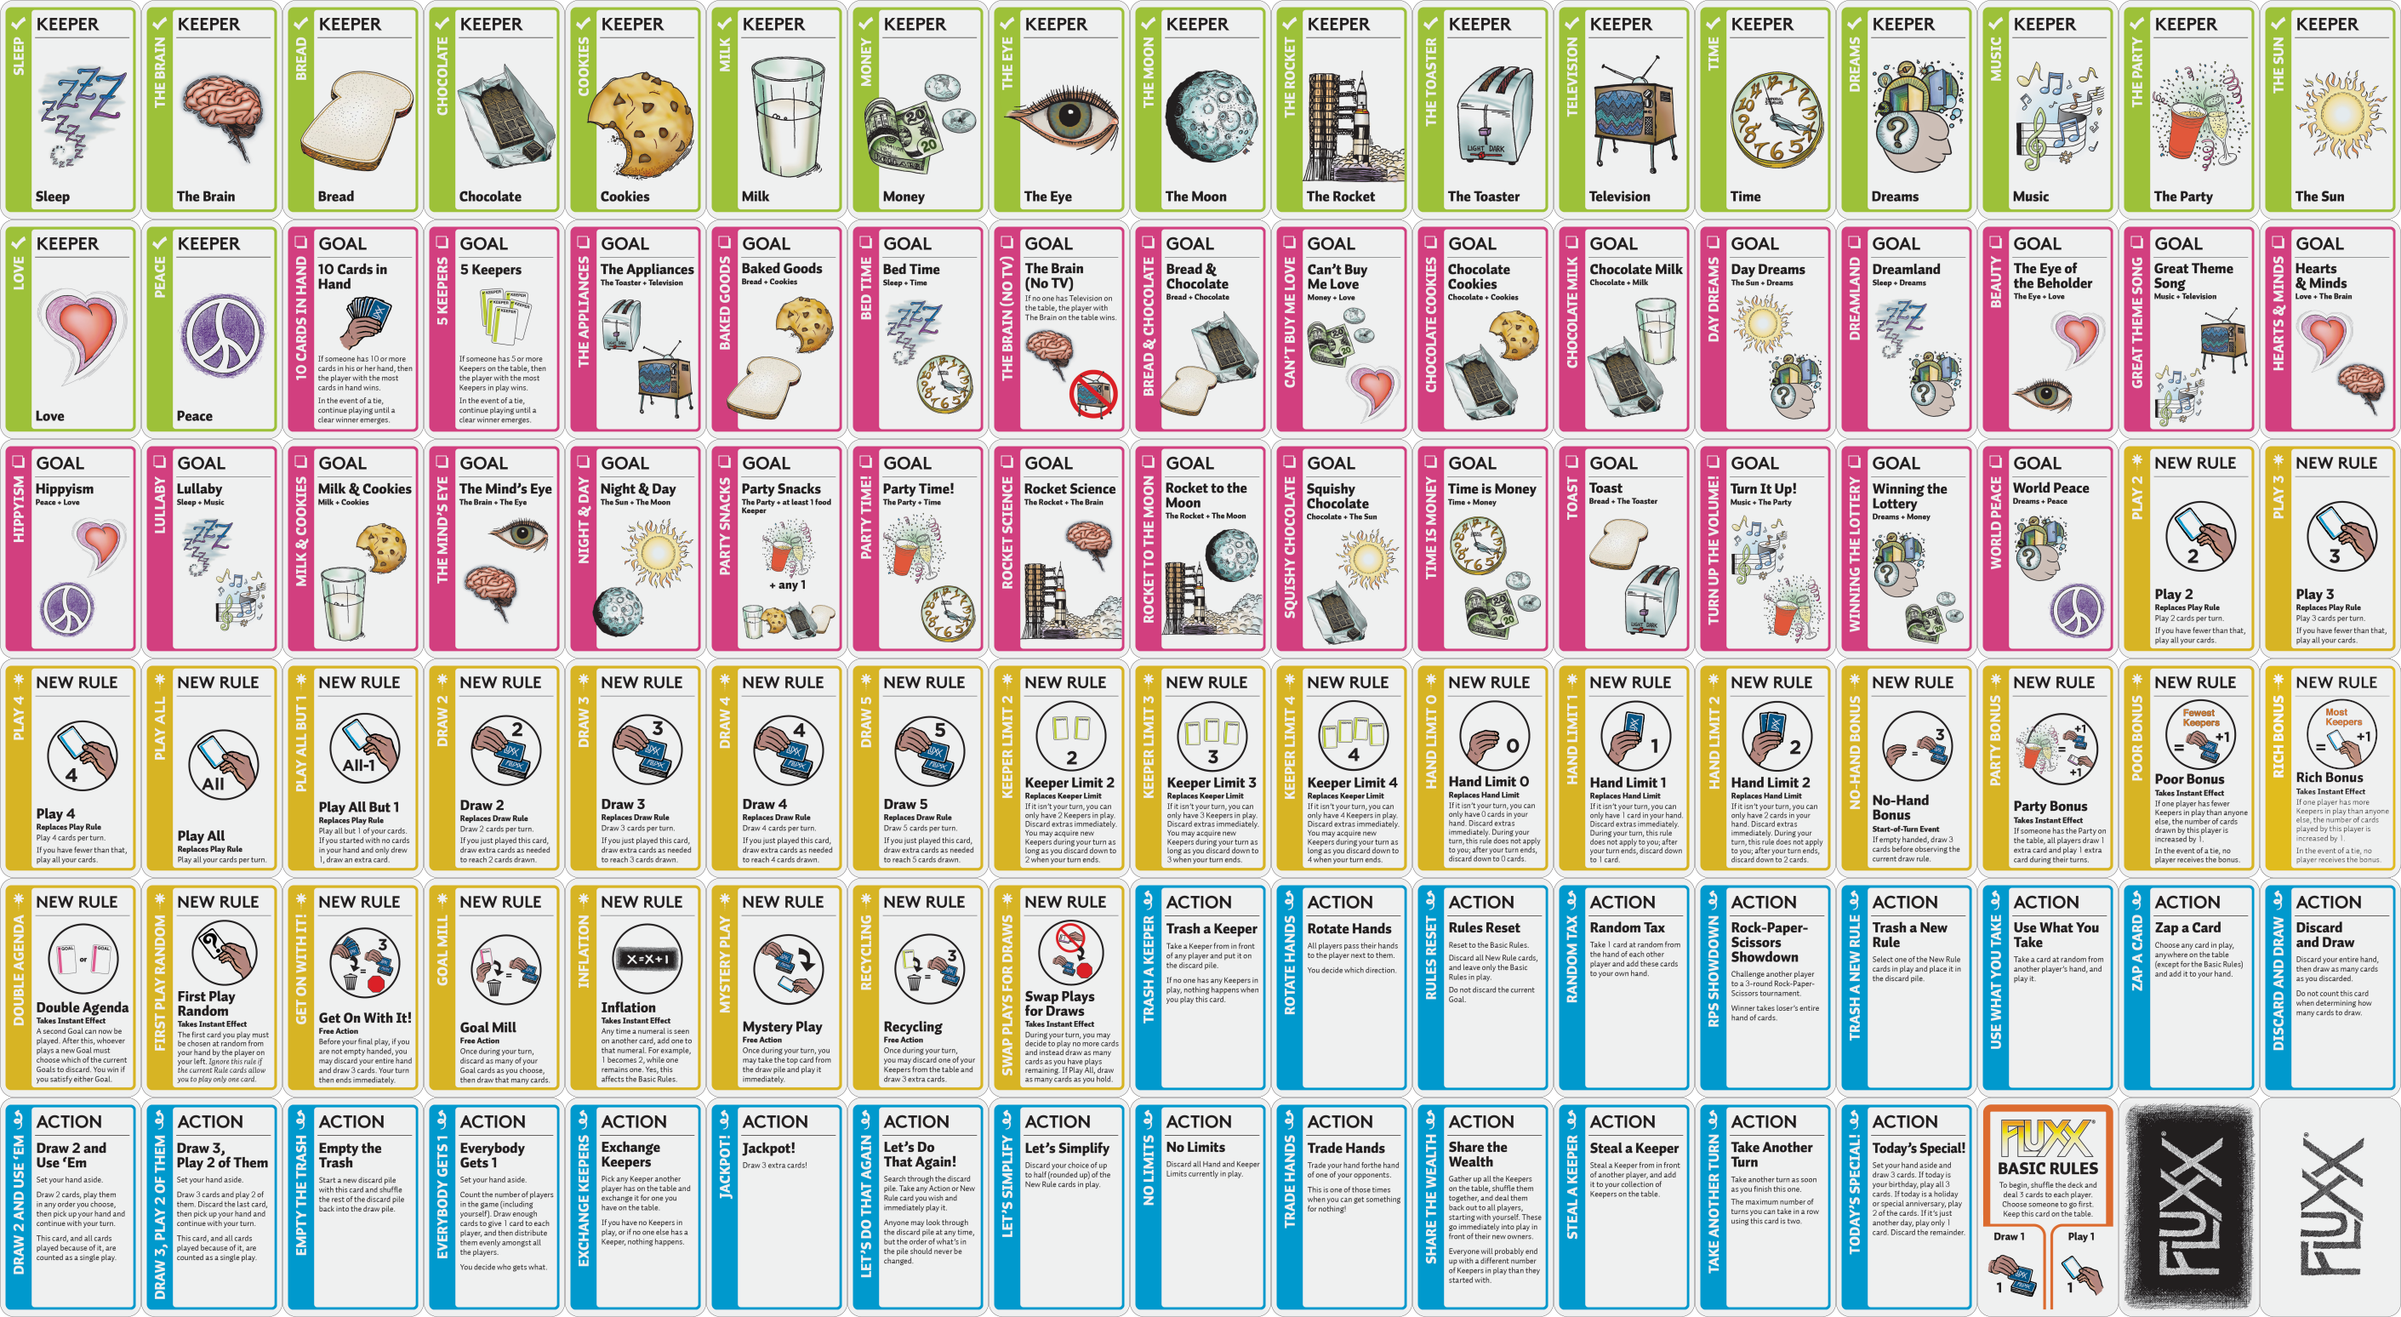
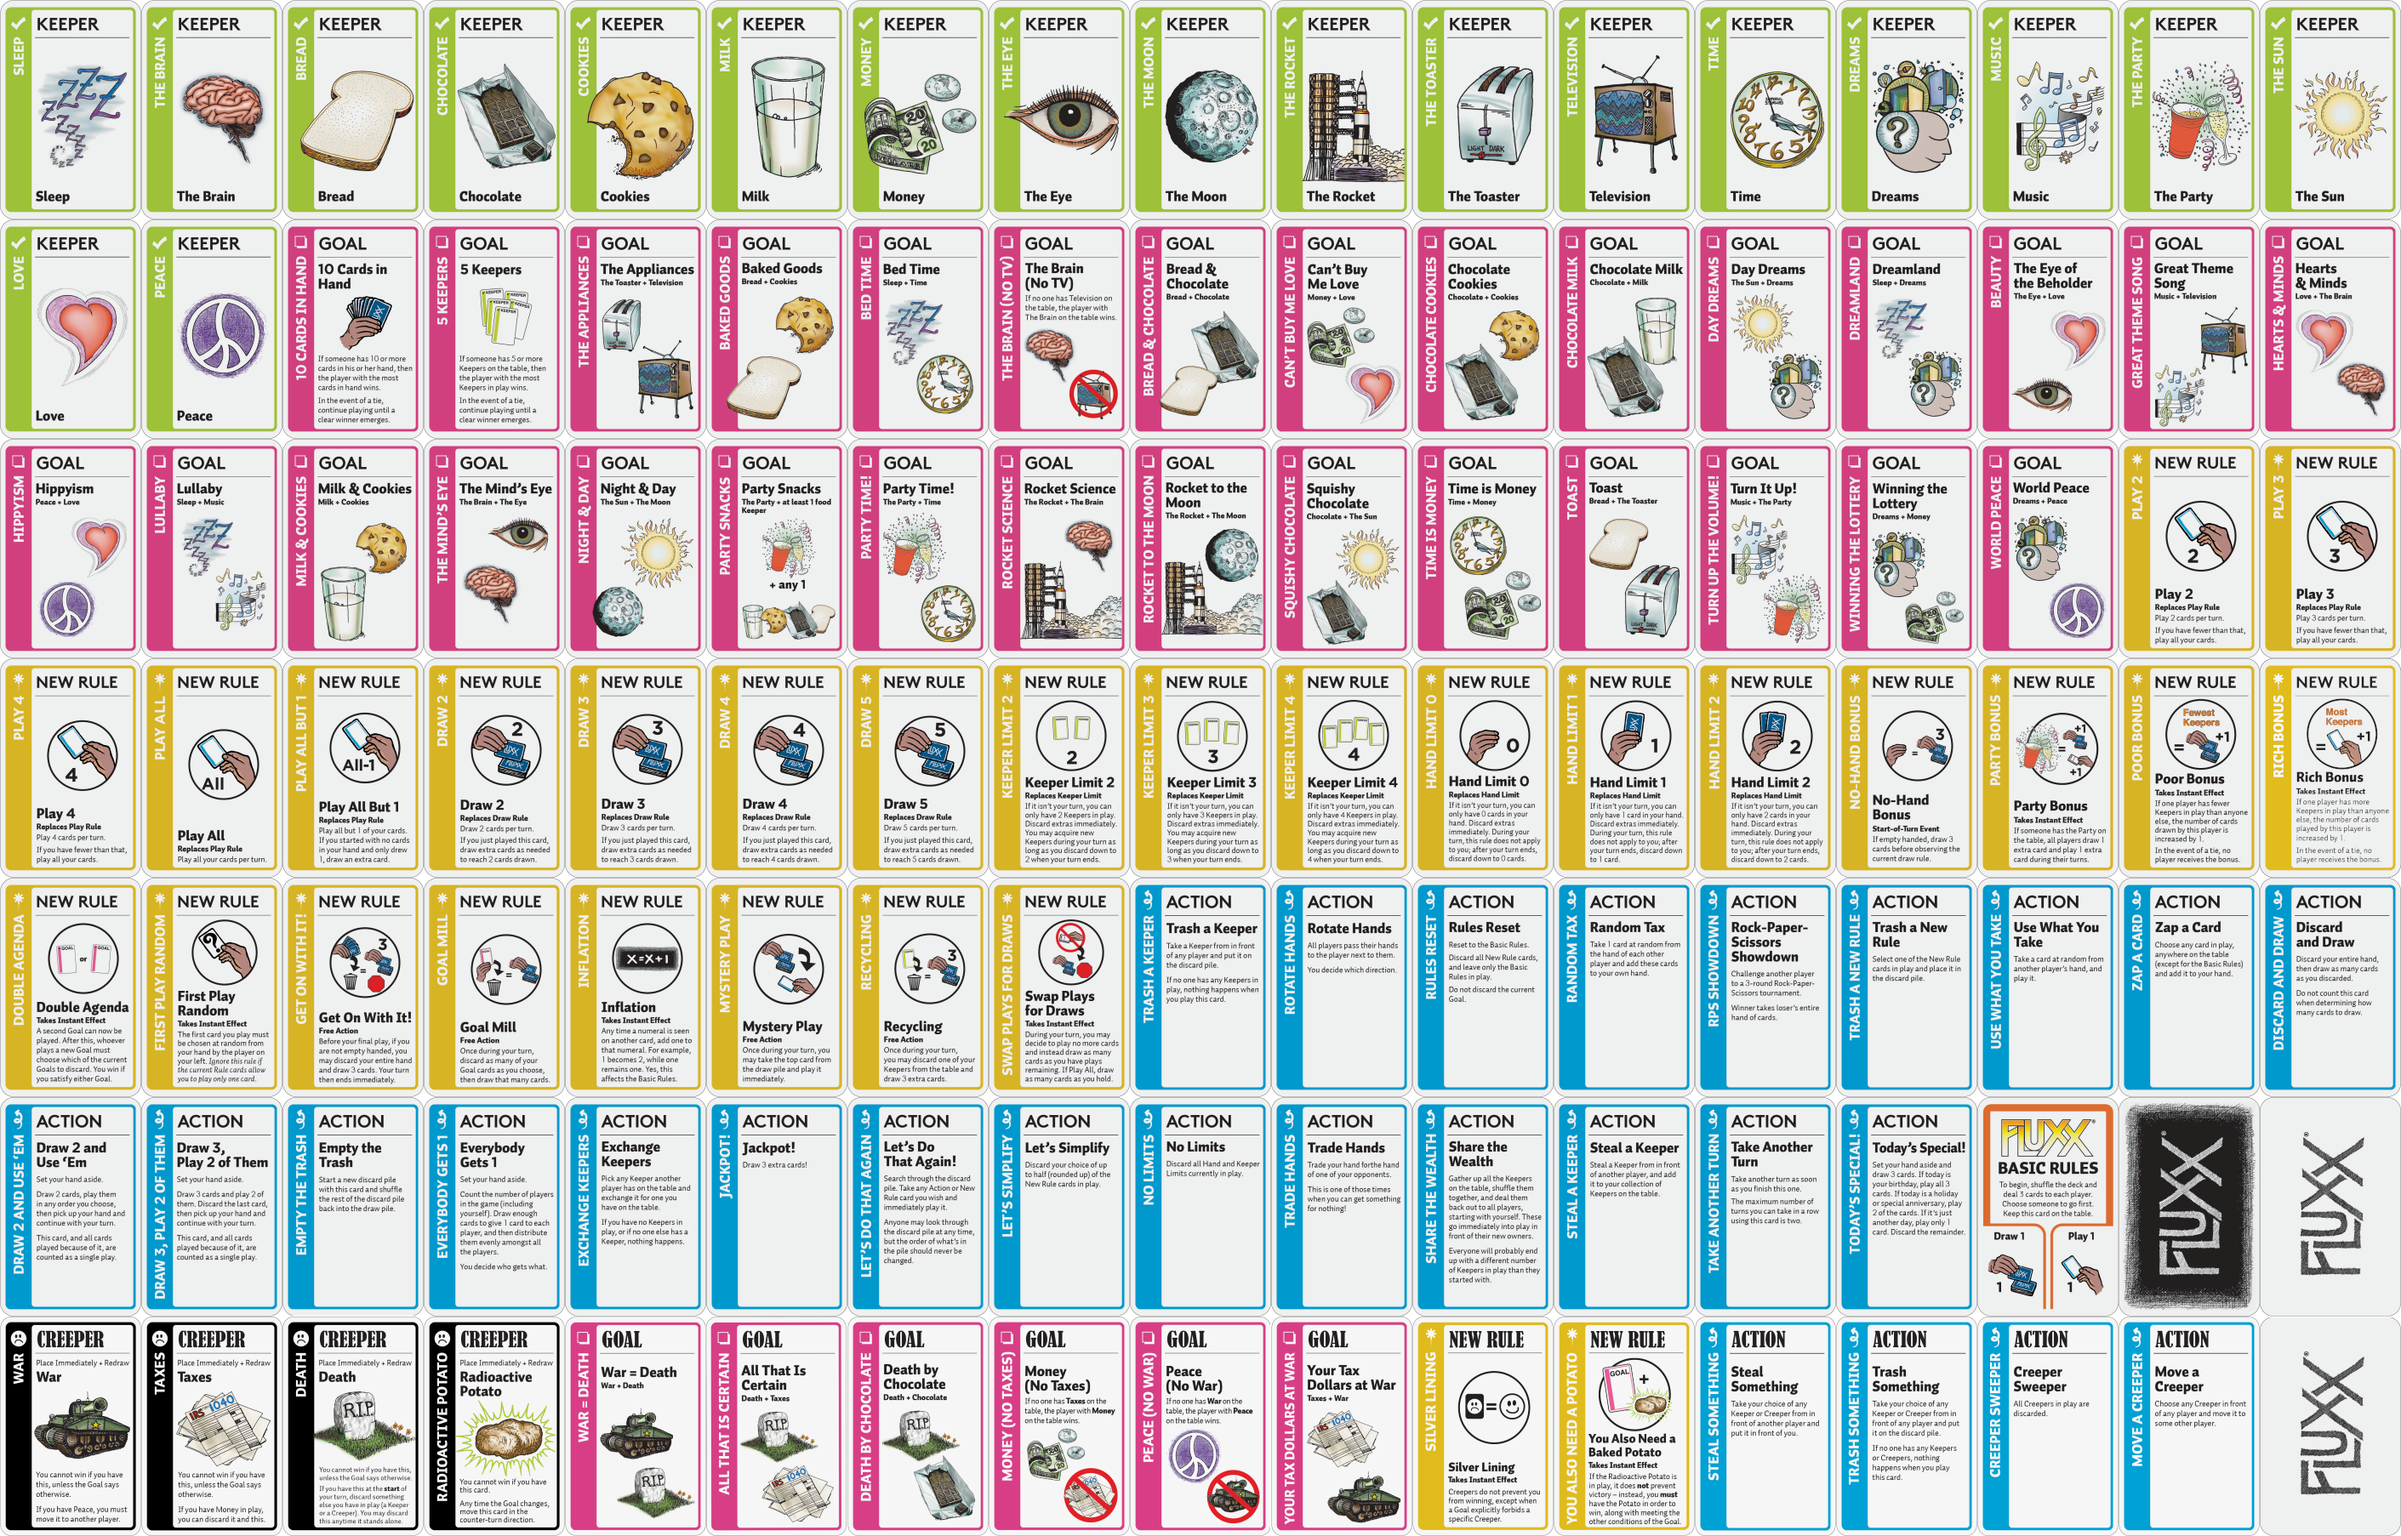
setup for creeper pack expansion

diff --git a/gameoptions.inc.php b/gameoptions.inc.php
@@ -49,4 +49,22 @@ $game_options = [
 ),
 
  */
+  101 => [
+    "name" => totranslate("Creeper Pack"),
+    "values" => [
+      0 => [
+        "name" => totranslate("Exclude"),
+        "description" => totranslate("Exclude Creeper Pack expansion"),
+        "tmdisplay" => totranslate("Basic Fluxx (no Creeper Pack)"),
+        "beta" => false,
+      ],
+      1 => [
+        "name" => totranslate("Include"),
+        "description" => totranslate("Include Creeper Pack expansion"),
+        "tmdisplay" => totranslate("Include Creeper Pack"),
+        "beta" => false,
+      ],
+    ],
+    "default" => 0,
+  ],
 ];

diff --git a/material.inc.php b/material.inc.php
@@ -40,4 +40,9 @@ $this->typesDefinitions = [
     "name" => self::_("action"),
     "nbCards" => 23,
   ],
+  [
+    "label" => "creeper",
+    "name" => self::_("creeper"),
+    "nbCards" => 4,
+  ],  
 ];
